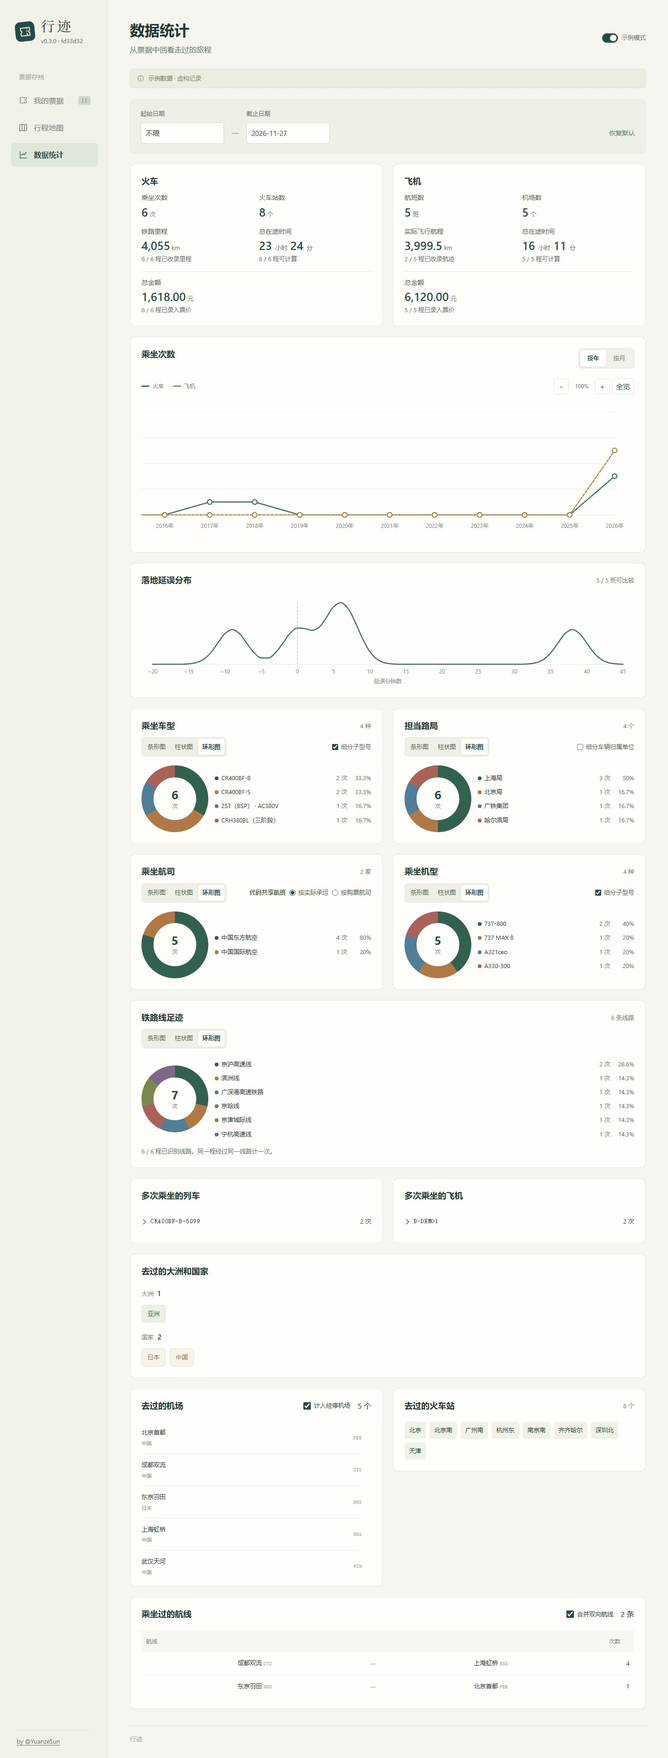
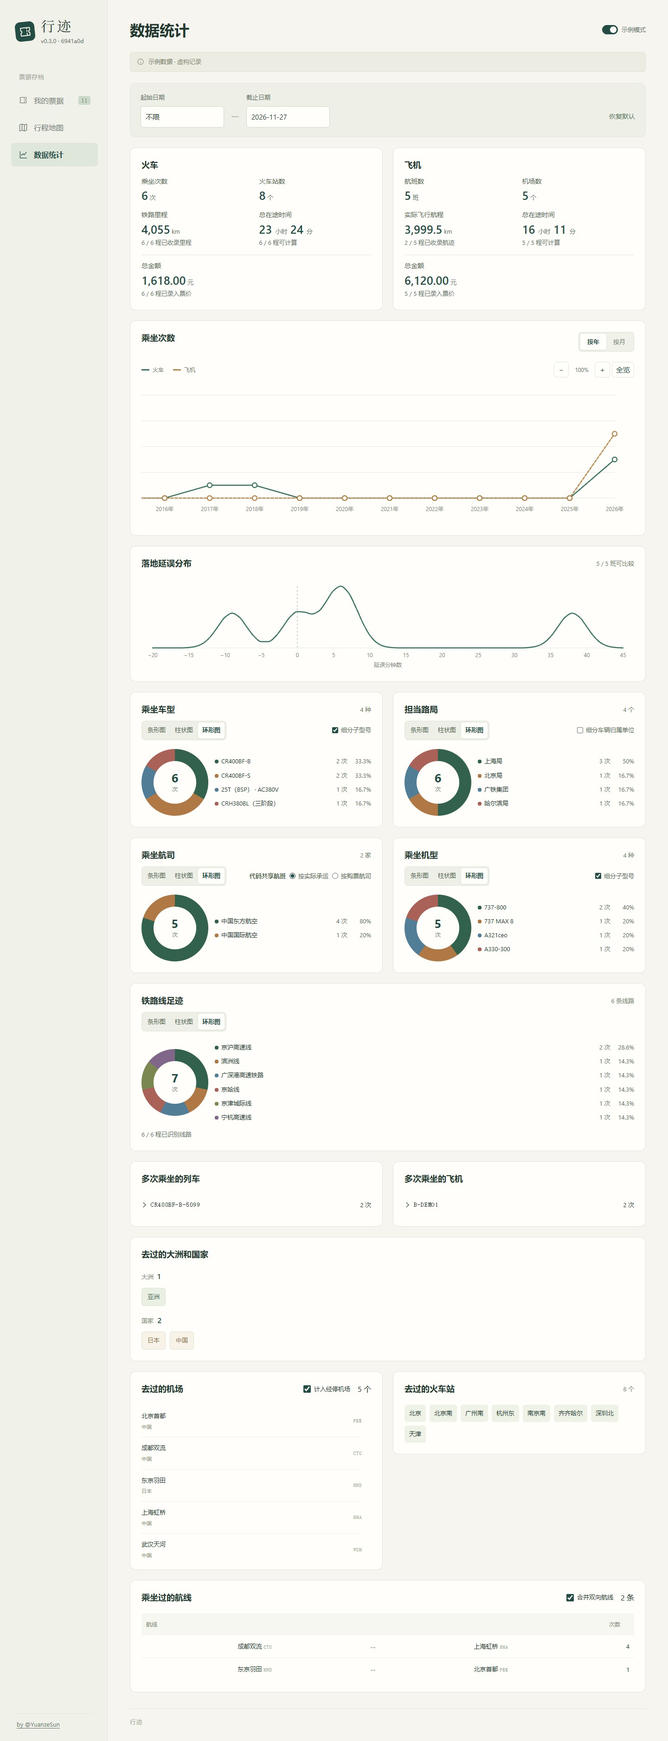
Remove redundant ticket grid controls and helper text

diff --git a/src/styles.css b/src/styles.css
@@ -63,7 +63,7 @@
 }
 
 .collection-bar{display:flex;align-items:center;justify-content:space-between;gap:16px;margin-bottom:23px}.tabs{display:flex;gap:25px;align-items:center}.tab{position:relative;background:none;border:0;padding:10px 0;color:#929889;font-size:14px;white-space:nowrap}.tab span{font-family:monospace;font-size:13px;padding:1px 5px;border-radius:4px;margin-left:6px;background:#eeefe8;color:#9ba18f}.tab.selected{color:#3a5848;font-weight:650}.tab.selected:after{content:"";position:absolute;bottom:-3px;left:0;width:25px;height:2px;background:#426d4f}.tab.selected span{background:#e2e9dc;color:#6b8361}.filter-inputs{display:flex;gap:10px;align-items:center}.search-box{display:flex;align-items:center;gap:8px;background:#fffefa;border:1px solid var(--line);padding:8px 11px;border-radius:6px}.search-box .icon{width:15px;height:15px;color:#a1a595}.search-box input{border:0;background:transparent;outline:0;width:180px;font-size:13px;color:#4c604c}.search-box input::placeholder{color:#a5aa9a}select{border:1px solid var(--line);border-radius:6px;background:var(--surface);padding:8px 10px;color:#788371;font-size:13px;height:35px}
-.ticket-grid{display:grid;grid-template-columns:repeat(2,minmax(0,1fr));gap:24px}.ticket-card{min-width:0;border:1px solid #e3e5da;border-radius:9px;background:var(--surface);padding:14px 17px 0;transition:box-shadow .2s,border-color .2s}.ticket-card:hover{border-color:#c7d0bd;box-shadow:0 7px 25px #243b2b09}.card-top{display:flex;align-items:center;justify-content:space-between;margin-bottom:16px}.transport-tag{font-size:13px;display:flex;align-items:center;gap:5px;color:#738668}.transport-tag .icon{width:14px;height:14px}.transport-tag.flight{color:#7a8b9e}.card-top time{font:13px monospace;letter-spacing:.6px;color:#9a9f90}.ticket-preview{border:0;padding:0;width:100%;display:block;line-height:0;background:none;filter:drop-shadow(0 5px 5px #3b4c3b11);transition:transform .2s}.ticket-preview:hover{transform:translateY(-2px)}.ticket-preview>svg{width:100%;height:auto;display:block;border-radius:6px}.card-info{display:flex;align-items:center;justify-content:space-between;padding:16px 0 13px;gap:8px}.card-info h2{font-weight:500;font-size:13px;letter-spacing:.3px;line-height:1.5}.card-info h2 span{color:#abb09f;margin:0 9px}.card-info p{font-size:13px;color:#9ca18f;margin-top:5px}.card-info p span{margin:0 7px}.card-info .icon-button .icon{height:16px;width:16px}.page-footer{display:flex;justify-content:space-between;margin-top:35px;padding-top:18px;border-top:1px solid #e4e7db;color:#a3a994;font-size:13px;letter-spacing:.7px}.page-footer span:last-child{font-family:TicketSong,serif}.empty-state{text-align:center;border:1px dashed #d7dfcf;border-radius:10px;padding:65px 20px;background:#ffffff55}.empty-state>.icon{height:45px;width:45px;stroke-width:1;color:#8b9c80;margin-bottom:18px}.empty-state h2{font-family:TicketSong,serif;font-size:22px;font-weight:500}.empty-state p{color:#8d9985;font-size:13px;margin:10px 0 24px}.empty-state .text-button{display:block;margin:10px auto 0}
+.ticket-grid{display:grid;grid-template-columns:repeat(2,minmax(0,1fr));gap:24px}.ticket-card{min-width:0;border:1px solid #e3e5da;border-radius:9px;background:var(--surface);padding:14px 17px 0;transition:box-shadow .2s,border-color .2s}.ticket-card:hover{border-color:#c7d0bd;box-shadow:0 7px 25px #243b2b09}.card-top{display:flex;align-items:center;justify-content:space-between;margin-bottom:16px}.transport-tag{font-size:13px;display:flex;align-items:center;gap:5px;color:#738668}.transport-tag .icon{width:14px;height:14px}.transport-tag.flight{color:#7a8b9e}.card-top time{font:13px monospace;letter-spacing:.6px;color:#9a9f90}.ticket-preview{border:0;padding:0;width:100%;display:block;line-height:0;background:none;filter:drop-shadow(0 5px 5px #3b4c3b11);transition:transform .2s}.ticket-preview:hover{transform:translateY(-2px)}.ticket-preview>svg{width:100%;height:auto;display:block;border-radius:6px}.card-info{display:flex;align-items:center;justify-content:space-between;padding:16px 0 13px;gap:8px}.card-info h2{font-weight:500;font-size:13px;letter-spacing:.3px;line-height:1.5}.card-info h2 span{color:#abb09f;margin:0 9px}.card-info p{font-size:13px;color:#9ca18f;margin-top:5px}.card-info p span{margin:0 7px}.page-footer{display:flex;justify-content:space-between;margin-top:35px;padding-top:18px;border-top:1px solid #e4e7db;color:#a3a994;font-size:13px;letter-spacing:.7px}.page-footer span:last-child{font-family:TicketSong,serif}.empty-state{text-align:center;border:1px dashed #d7dfcf;border-radius:10px;padding:65px 20px;background:#ffffff55}.empty-state>.icon{height:45px;width:45px;stroke-width:1;color:#8b9c80;margin-bottom:18px}.empty-state h2{font-family:TicketSong,serif;font-size:22px;font-weight:500}.empty-state p{color:#8d9985;font-size:13px;margin:10px 0 24px}.empty-state .text-button{display:block;margin:10px auto 0}
 .panel{background:var(--surface);border:1px solid #e1e5d8;border-radius:10px;padding:25px}.panel-heading{display:flex;align-items:center;gap:13px;margin-bottom:23px}.panel-heading h2,.panel h2{font-size:15px;font-weight:600}.panel-heading p{font-size:13px;color:#929b88;margin-top:4px}.panel-icon{color:#75906e}.import-status{font-size:13px;color:#7a845f;margin-top:13px;white-space:pre-wrap}
 .field{display:flex;flex-direction:column;gap:7px;margin-bottom:17px;min-width:0}.field>span{font-size:13px;color:#7d8d72;display:flex;flex-wrap:wrap;align-items:center;gap:8px}.field small{font-size:13px;color:#a4af98}.field input,.field select,.field textarea{width:100%;border:1px solid #dfe5d6;background:#fffefa;border-radius:5px;padding:9px 11px;color:#3d5637;font-size:13px;min-height:40px;transition:border-color .2s}.field input::placeholder,.field textarea::placeholder{color:#b0b9a5;font-size:13px}.field textarea{resize:vertical;line-height:1.8;min-height:90px}.form-grid{display:grid;grid-template-columns:repeat(2,minmax(0,1fr));gap:0 17px}.full-field{grid-column:1/-1}.checkbox-row{display:flex;align-items:center;gap:8px;font-size:13px;color:#7c8d6f;margin:8px 0 20px;flex-wrap:wrap}.checkbox-row span{display:block;width:100%;font-size:13px;color:#a1ad93;margin-left:23px}.checkbox-row input{margin:0;accent-color:var(--green)}.button-row{display:flex;align-items:center;gap:10px;flex-wrap:wrap}.data-layout{display:grid;grid-template-columns:minmax(0,1fr);gap:24px}.status-pill{margin-left:auto;border:1px solid #e4e9dd;border-radius:5px;padding:3px 7px;font-size:13px;color:#a2ab94;white-space:nowrap}.status-pill.connected{color:#66835a;background:#edf4e7;border-color:#d6e6c9}.setup-help{border-top:1px solid #e4e9dc;margin-top:23px;padding-top:15px;font-size:13px;color:#8e9d80}.setup-help summary{cursor:pointer;color:#788e68}.setup-help ol{padding-left:21px;line-height:2.1}.setup-help p{font-size:13px;line-height:1.9;margin-top:11px}.setup-help a{color:#68855b;margin-right:16px;text-decoration:underline;text-underline-offset:3px}.backup-actions{display:flex;flex-direction:column;gap:10px;margin-bottom:12px}.backup-actions button{text-align:left;display:grid;grid-template-columns:36px 1fr 20px;column-gap:10px;background:#f7f8f1;border:1px solid #e5eadc;border-radius:6px;padding:13px}.backup-actions button>span{grid-row:1/3;background:#e8efdf;display:grid;place-items:center;border-radius:7px;color:#7d946d}.backup-actions button strong{font-weight:500;font-size:13px}.backup-actions button small{grid-column:2;font-size:13px;color:#99a58a;margin-top:2px}.backup-actions button>.icon{grid-row:1/3;grid-column:3;align-self:center;height:16px;width:16px;color:#8ea17d}.body-copy{font-size:13px;line-height:1.9;color:#8b9980;margin-bottom:18px}.small-link{display:block;font-size:13px;color:#7e946c;margin-top:17px}.fine-print{font-size:13px!important;line-height:1.85;color:#a1ac94!important;margin-top:12px}
 .modal-open{overflow:hidden}dialog.modal{padding:0;border:1px solid #dde2d6;border-radius:12px;width:min(760px,calc(100% - 36px));max-height:92dvh;background:var(--surface);color:var(--ink);box-shadow:0 30px 100px #172b2930;overflow-y:auto;overscroll-behavior:contain}dialog.modal::backdrop{background:#1e302f72;backdrop-filter:blur(3px)}dialog.modal.wide{width:min(1160px,calc(100% - 40px))}.modal-heading{display:flex;justify-content:space-between;align-items:flex-start;gap:15px;padding:23px 26px;border-bottom:1px solid #e3e7db;background:var(--surface);position:sticky;top:0;z-index:2}.modal-heading h2{font-family:TicketSong,serif;font-size:21px;font-weight:550;line-height:1.5}.modal-heading p{font-size:13px;color:#9ba88b;margin-top:5px}.modal-heading .icon-button{margin:-4px -5px 0 0}.modal-footer{display:flex;align-items:center;gap:9px;padding:17px 25px;border-top:1px solid #e2e7d9;background:#f9faf3;position:sticky;bottom:0;z-index:2}.detail-preview{background:#eef1e9;padding:28px 50px}.detail-preview>svg{width:100%;height:auto;display:block;box-shadow:0 8px 6px #30483615}.detail-body{padding:23px 27px}.detail-grid{display:grid;grid-template-columns:repeat(2,minmax(0,1fr));gap:18px 25px;margin:0}.detail-grid dt{font-size:13px;color:#a5b097;margin-bottom:4px}.detail-grid dd{font-size:13px;margin:0;overflow-wrap:anywhere}.source-details{margin-top:20px;font-size:13px;color:#9aaa89}.source-details summary{cursor:pointer;color:#839970}.source-details p{margin-top:10px;display:flex;gap:12px;justify-content:space-between}.editor-layout{display:grid;grid-template-columns:1.15fr 1fr;align-items:start}.editor-fields{padding:24px 27px;border-right:1px solid #e7eadf}.editor-visual{padding:24px 24px;position:sticky;top:100px;min-width:0}.preview-label{display:flex;justify-content:space-between;font-size:13px;color:#98a68c;margin-bottom:16px}.editor-preview{line-height:0}.editor-preview>svg{display:block;width:100%;height:auto;box-shadow:0 7px 8px #2b452914}.editor-extra{border-top:1px solid #e7ebdf;padding-top:13px;margin-top:3px;margin-bottom:19px}.editor-extra summary{font-size:13px;color:#839974;cursor:pointer;margin-bottom:13px}.form-error{font-size:13px;color:var(--red);margin-top:12px}.scan-reference{margin-top:22px;font-size:13px;color:#8a9e78}.scan-reference summary{cursor:pointer;margin-bottom:10px}.scan-reference img{max-width:100%;max-height:380px;object-fit:contain;border-radius:4px;background:#eff2e7}.conflicts{padding:8px 24px 24px;max-height:60dvh;overflow:auto}.conflict{border:1px solid #e0e7d6;border-radius:8px;padding:17px;margin:20px 0 0}.conflict legend{font-size:13px;padding:0 6px}.conflict label{display:flex;gap:10px;align-items:center;padding:10px;font-size:13px;overflow-wrap:anywhere}.conflict label+label{border-top:1px solid #e6eddd}.conflict input{accent-color:var(--green)}.conflict small{display:block;color:#9eaf8b;font-size:13px}.raw-result{font:13px monospace;white-space:pre-wrap;overflow-wrap:anywhere;max-height:45dvh;overflow:auto;background:#f2f5ec;padding:16px;border-radius:6px}.boot{padding:15vh 15vw;font-family:TicketSong,serif;font-size:40px;color:var(--green)}.boot span{font-family:sans-serif;font-size:13px;color:#8b9b7e;display:block;margin-top:10px}.boot-error{padding:40px;max-width:700px}.boot-error p{margin:20px 0;font-size:14px;color:#7d8c70}#toast-root{position:fixed;bottom:25px;left:50%;transform:translateX(-50%);z-index:100;display:flex;flex-direction:column;align-items:center;gap:10px;pointer-events:none;width:min(90vw,540px)}.toast{display:flex;align-items:center;gap:9px;font-size:13px;padding:13px 19px;background:#2d5147;color:#fffef9;border-radius:8px;box-shadow:0 5px 25px #223b2c25;max-width:100%;overflow-wrap:anywhere}.toast .icon{width:17px;height:17px}.toast.error{background:#9e5648}
@@ -230,10 +230,10 @@ dialog:is(.ticket-editor-modal,.ticket-detail-modal)::backdrop{backdrop-filter:n
 .card-route h2 .route-endpoint{min-width:0;overflow:hidden;text-overflow:ellipsis;white-space:nowrap;color:var(--ink);font-size:inherit;font-weight:inherit}
 .card-route h2 span{margin:0}.card-route .route-arrow{flex-shrink:0;color:var(--muted)}
 .card-route .card-service{flex-shrink:0;font-size:18px;white-space:nowrap}
-.card-info>.icon-button{flex-shrink:0;padding-right:0}.heading-service{display:inline-block;margin-right:16px;font-size:.8em;white-space:nowrap}
+.heading-service{display:inline-block;margin-right:16px;font-size:.8em;white-space:nowrap}
 .modal-heading>div{min-width:0;flex:1}.modal-heading h2{display:flex;align-items:center}
 .heading-service{flex-shrink:0}.heading-route{min-width:0;flex:1;overflow:hidden;text-overflow:ellipsis;white-space:nowrap;text-align:right}
-@media(max-width:620px){.card-route h2{font-size:18px;gap:6px}.card-info .card-route{gap:10px}.card-route .card-service{font-size:16px}.card-info>.icon-button{padding-left:6px}.heading-service{margin-right:10px}}
+@media(max-width:620px){.card-route h2{font-size:18px;gap:6px}.card-info .card-route{gap:10px}.card-route .card-service{font-size:16px}.heading-service{margin-right:10px}}
 
 /* Timeline: readable dates, neutral cards and a continuous guide. */
 .timeline{max-width:1080px;margin-top:28px}
@@ -713,7 +713,7 @@ p.flight-local-time{margin:-4px 0 13px}
 .ticket-size-controls{display:flex;align-items:center;gap:9px;font-size:12px;color:var(--muted)}.ticket-size-controls[hidden]{display:none}.ticket-size-controls button{min-width:38px;min-height:34px;padding:6px 12px;border:1px solid var(--line);border-radius:6px;background:var(--surface);color:var(--muted);font:inherit;cursor:pointer}.ticket-size-controls button[aria-pressed=true]{background:var(--green);color:#fff;border-color:var(--green)}
 .ticket-collection.ticket-grid{grid-template-columns:repeat(auto-fill,minmax(min(100%,var(--ticket-min,390px)),1fr));gap:clamp(10px,calc(24px * var(--ticket-scale,1)),28px)}
 .ticket-collection.ticket-grid .ticket-card{container-type:inline-size;padding:14px 17px 0}
-.ticket-collection.ticket-grid .card-top{flex-wrap:wrap;gap:6px;font-size:clamp(10px,calc(13px * var(--ticket-scale,1)),15px)}.ticket-collection .card-top time{margin-left:auto}.ticket-collection.ticket-grid .card-info{padding:10px 0;gap:5px}.ticket-collection.ticket-grid .card-route{min-width:0;flex:1}.ticket-collection.ticket-grid .card-service{font-size:clamp(14px,calc(22px * var(--ticket-scale,1)),28px)}.ticket-collection.ticket-grid .card-route h2{font-size:clamp(11px,calc(17px * var(--ticket-scale,1)),23px);gap:6px}.ticket-collection.ticket-grid .route-endpoint{overflow-wrap:anywhere;min-width:0}.ticket-collection.ticket-grid .card-info>.icon-button{width:25px;min-width:25px;min-height:28px;height:28px}.ticket-collection.ticket-grid .card-info>.icon-button .icon{width:16px;height:16px}
+.ticket-collection.ticket-grid .card-top{flex-wrap:wrap;gap:6px;font-size:clamp(10px,calc(13px * var(--ticket-scale,1)),15px)}.ticket-collection .card-top time{margin-left:auto}.ticket-collection.ticket-grid .card-info{padding:10px 0;gap:5px}.ticket-collection.ticket-grid .card-route{min-width:0;flex:1}.ticket-collection.ticket-grid .card-service{font-size:clamp(14px,calc(22px * var(--ticket-scale,1)),28px)}.ticket-collection.ticket-grid .card-route h2{font-size:clamp(11px,calc(17px * var(--ticket-scale,1)),23px);gap:6px}.ticket-collection.ticket-grid .route-endpoint{overflow-wrap:anywhere;min-width:0}
 .ticket-list{display:grid;gap:0;border:1px solid var(--line);border-radius:9px;overflow:hidden}.ticket-card.ticket-list-row{display:flex;flex-direction:row;align-items:center;gap:10px;padding:0 12px;border:0;border-bottom:1px solid var(--line);border-radius:0}.ticket-list-row:last-child{border-bottom:0}.ticket-list-row.is-selected{box-shadow:inset 3px 0 #60836f;background:#eff4eb}.ticket-list-open{display:grid;grid-template-columns:96px 94px minmax(150px,1fr) 74px minmax(90px,.55fr) 70px 16px;align-items:center;gap:14px;min-height:46px;width:100%;flex:1;padding:6px 0;background:none;border:0;text-align:left;color:var(--ink);font:inherit;font-size:13px;min-width:0}.ticket-list-date{display:flex;flex-direction:column;gap:3px;font-size:12px;font-variant-numeric:tabular-nums}.ticket-list-date small{color:var(--muted);font-size:11px}.ticket-list-service{display:flex;align-items:center;gap:7px}.ticket-list-service .transport-tag{padding:0;border:0;background:none}.ticket-list-service strong{font-size:15px}.ticket-list-route{display:flex;align-items:center;gap:9px;min-width:0;overflow-wrap:anywhere}.ticket-list-person,.ticket-list-seat{overflow-wrap:anywhere;color:var(--muted);font-size:12px}.ticket-list-price{text-align:right;font-variant-numeric:tabular-nums}.ticket-list-open>.icon{width:15px}.ticket-list-row:hover{border-color:#a0b39d;background:#f8faf4}.ticket-list .card-select{flex-shrink:0}
 .timeline-list-compact{margin-top:18px}.timeline-list-compact .timeline-item{grid-template-columns:66px 28px minmax(0,1fr);gap:12px;padding-bottom:9px}.timeline-list-compact .timeline-body{padding:12px 40px 12px 16px;gap:6px;border-radius:8px}.timeline-list-compact .timeline-service{font-size:18px}.timeline-list-compact .timeline-route{font-size:17px}.timeline-list-compact .timeline-meta{font-size:12px;gap:10px}.timeline-list-compact .timeline-date strong{font-size:18px}.timeline-list-compact .ticket-period{margin-bottom:24px}
 

diff --git a/src/personal-profile-form.js b/src/personal-profile-form.js
@@ -21,7 +21,7 @@ export function personalProfilePanel(value, error = '') {
   const profile = { ...personalProfile(), ...value };
   const docs = value?.documents || [{id:'identity-card',type:'national-id'}, {id:'passport',type:'passport'}];
   const field = ([key,label,type,max]) => `<label class="field"><span>${e(label)}</span>${type === 'select' ? `<select name="${key}" data-setting-control>${GENDER_OPTIONS.map(([value,label])=>`<option value="${value}" ${profile[key] === value ? 'selected' : ''}>${label}</option>`).join('')}</select>` : `<input name="${key}" type="${type}" value="${e(profile[key])}" maxlength="${max}" autocomplete="off" data-setting-control />`}</label>`;
-  return `<section class="panel personal-profile"><div class="panel-heading"><div><h2>个人常用资料</h2><p>新建手动票据时按行程预填姓名和证件号。脱敏证件号唯一匹配后会填入并锁定。</p></div></div><form id="profile-form"><div class="profile-basics form-grid">${PROFILE_FIELDS.map(field).join('')}</div><h3>常用证件</h3><div class="profile-documents">${docs.map((doc,index)=>`<fieldset class="profile-document" data-document-id="${e(doc.id)}"><legend><span>证件 ${index+1}</span><button type="button" class="text-button danger" data-profile-remove="${e(doc.id)}" aria-label="移除证件 ${index+1}" data-setting-control>移除</button></legend><div class="profile-document-fields"><label class="field"><span>证件类型</span><select data-doc-field="type" data-setting-control>${Object.entries(DOCUMENT_TYPES).map(([key,label])=>`<option value="${key}" ${key === doc.type ? 'selected' : ''}>${label}</option>`).join('')}</select></label><label class="field"><span>证件号码</span><input data-doc-field="number" value="${e(maskedDocument(doc.number, doc.type))}" autocomplete="off" spellcheck="false" maxlength="128" data-setting-control /></label><label class="field"><span>证件备注名</span><input data-doc-field="label" value="${e(doc.label)}" placeholder="可选，如旧护照" maxlength="80" data-setting-control /></label><label class="field"><span>有效期至</span><input type="date" data-doc-field="expiry" value="${e(doc.expiry)}" data-setting-control /></label></div></fieldset>`).join('')}</div><button type="button" class="button secondary small" data-profile-add data-setting-control>＋ 添加其他证件</button>${membershipFields(profile.memberships || [])}<p class="fine-print">随个人资料同步，重置票库时保留。</p><p class="form-error" role="alert">${e(error)}</p><div class="button-row"><button class="button primary" type="submit" data-setting-control>保存个人资料</button></div></form></section>`;
+  return `<section class="panel personal-profile"><div class="panel-heading"><h2>个人常用资料</h2></div><form id="profile-form"><div class="profile-basics form-grid">${PROFILE_FIELDS.map(field).join('')}</div><h3>常用证件</h3><div class="profile-documents">${docs.map((doc,index)=>`<fieldset class="profile-document" data-document-id="${e(doc.id)}"><legend><span>证件 ${index+1}</span><button type="button" class="text-button danger" data-profile-remove="${e(doc.id)}" aria-label="移除证件 ${index+1}" data-setting-control>移除</button></legend><div class="profile-document-fields"><label class="field"><span>证件类型</span><select data-doc-field="type" data-setting-control>${Object.entries(DOCUMENT_TYPES).map(([key,label])=>`<option value="${key}" ${key === doc.type ? 'selected' : ''}>${label}</option>`).join('')}</select></label><label class="field"><span>证件号码</span><input data-doc-field="number" value="${e(maskedDocument(doc.number, doc.type))}" autocomplete="off" spellcheck="false" maxlength="128" data-setting-control /></label><label class="field"><span>证件备注名</span><input data-doc-field="label" value="${e(doc.label)}" placeholder="可选，如旧护照" maxlength="80" data-setting-control /></label><label class="field"><span>有效期至</span><input type="date" data-doc-field="expiry" value="${e(doc.expiry)}" data-setting-control /></label></div></fieldset>`).join('')}</div><button type="button" class="button secondary small" data-profile-add data-setting-control>＋ 添加其他证件</button>${membershipFields(profile.memberships || [])}<p class="form-error" role="alert">${e(error)}</p><div class="button-row"><button class="button primary" type="submit" data-setting-control>保存个人资料</button></div></form></section>`;
 }
 function collectRows(form, kind, field = kind) {
   return [...form.querySelectorAll(`[data-${kind}-id]`)].map(row => ({

diff --git a/src/ticket-card.js b/src/ticket-card.js
@@ -10,7 +10,7 @@ export function ticketSelection(record, selected) {
   return `<label class="card-select"><input type="checkbox" data-archive-select="${e(record.id)}" ${selected ? 'checked' : ''} aria-label="选择 ${e(routeLabel(record))} ${e(formatDate(record.departureDate))}票据"/></label>`;
 }
 export function ticketCard(record, {icon, selectable = true, selected = false}) {
-  return `<article class="ticket-card${selected ? ' is-selected' : ''}"><div class="card-top"><span class="transport-tag ${record.type}">${icon(record.type === 'rail' ? 'train' : 'plane')}${kind(record)}</span><time>${e(formatDate(record.departureDate))}</time></div><div class="card-info"><div class="card-route"><strong class="card-service">${e(record.service || (record.flightStatus === 'open' ? 'OPEN' : '班次待补充'))}</strong><h2><span class="route-endpoint">${e(record.origin || '出发地待补充')}</span><span class="route-arrow">→</span><span class="route-endpoint">${e(record.destination || '到达地待补充')}</span></h2></div><button class="icon-button" data-action="view" data-id="${e(record.id)}" aria-label="查看票据详情">${icon('chevron')}</button></div><div class="ticket-face" data-ticket-type="${record.type}">${selectable ? ticketSelection(record,selected) : ''}<button class="ticket-preview" data-action="view" data-id="${e(record.id)}" aria-label="查看 ${e(routeLabel(record))}票据">${ticketSVG(record)}</button></div></article>`;
+  return `<article class="ticket-card${selected ? ' is-selected' : ''}"><div class="card-top"><span class="transport-tag ${record.type}">${icon(record.type === 'rail' ? 'train' : 'plane')}${kind(record)}</span><time>${e(formatDate(record.departureDate))}</time></div><div class="card-info"><div class="card-route"><strong class="card-service">${e(record.service || (record.flightStatus === 'open' ? 'OPEN' : '班次待补充'))}</strong><h2><span class="route-endpoint">${e(record.origin || '出发地待补充')}</span><span class="route-arrow">→</span><span class="route-endpoint">${e(record.destination || '到达地待补充')}</span></h2></div></div><div class="ticket-face" data-ticket-type="${record.type}">${selectable ? ticketSelection(record,selected) : ''}<button class="ticket-preview" data-action="view" data-id="${e(record.id)}" aria-label="查看 ${e(routeLabel(record))}票据">${ticketSVG(record)}</button></div></article>`;
 }
 export function ticketListRow(record, {icon, selectable = true, selected = false}) {
   const seat = [record.type === 'rail' && record.carriage ? record.carriage+'车' : '',record.seat,record.type === 'flight' ? flightCabinLabel(record.seatClass) : record.seatClass].filter(Boolean).join(' · ');

diff --git a/src/statistics.js b/src/statistics.js
@@ -61,7 +61,7 @@ export function mountStatistics(container, records, { options = {} } = {}) {
       : option ? `<label><input type="checkbox" data-stat-option="${option}" ${options[option] ? 'checked' : ''}/>${label}</label>` : '';
     const unidentified = statistics[unknown] ? `<p class="fine-print">${unknownLabel} · ${statistics[unknown]} 次</p>` : '';
     const coverage = kind === 'rail-lines'
-      ? `<p class="statistics-coverage">${statistics.railLineTrips} / ${statistics.rail} 程已识别线路。同一程经过同一线路计一次。</p>` : '';
+      ? `<p class="statistics-coverage">${statistics.railLineTrips} / ${statistics.rail} 程已识别线路</p>` : '';
     return `<section class="statistics-panel statistics-ranking" data-stat-ranking="${kind}"><header><h2>${title}</h2><span>${rows.length} ${unit}</span></header><div class="statistics-ranking-controls"><div class="statistics-view-picker" role="group" aria-label="${title}图表样式">${chooser}</div>${grouping}</div><div data-stat-plot>${rankingPlot(kind, view)}</div>${unidentified}${coverage}</section>`;
   }
   function render() {

diff --git a/src/app.js b/src/app.js
@@ -634,7 +634,7 @@ function journeyMapPage() {
   return header('行程地图', '') + (guestDemoNotice() || (state.showDemo ? '<div class="demo-banner">' + icon('info') + '<span><strong>示例数据</strong> · 虚构记录</span></div>' : '')) + '<div id="journey-map-root"><div class="map-loading" role="status">正在加载地图…</div></div>';
 }
 function statisticsPage() {
-  return header('数据统计', '从票据中回看走过的旅程') + (guestDemoNotice() || (state.showDemo ? '<div class="demo-banner">' + icon('info') + '<span><strong>示例数据</strong> · 虚构记录</span></div>' : '')) + '<div id="statistics-root"><div class="map-loading" role="status">正在整理统计…</div></div>';
+  return header('数据统计') + (guestDemoNotice() || (state.showDemo ? '<div class="demo-banner">' + icon('info') + '<span><strong>示例数据</strong> · 虚构记录</span></div>' : '')) + '<div id="statistics-root"><div class="map-loading" role="status">正在整理统计…</div></div>';
 }
 let connectorInstalled = false, checkingConnector = false;
 async function refreshConnectorStatus() {

diff --git a/tests/flight-lookup-app.test.js b/tests/flight-lookup-app.test.js
@@ -28,6 +28,7 @@ test('the editor fills a flight through the provider, preserves private input an
     const db = await import('../src/db.js'); await import('../src/app.js'); await wait(() => document.querySelector('[data-action=new]:not(:disabled)'));
     document.querySelector('[data-action=new]').click(); await wait(() => document.querySelector('#editor-form'));
     fill('type', 'flight'); assert.ok(document.querySelector('.flight-lookup'));
+    assert.match(document.querySelector('.flight-lookup-note').textContent, /可能有误.*航旅纵横/);
     fill('service', 'CA181'); fill('departureDate', '2026-07-18'); fill('passenger', 'LI/MING'); fill('identity', 'P000001'); fill('seat', '24K'); fill('seatClass', 'Y'); fill('price', '580'); fill('pnr', 'ABC123'); fill('aircraftRegistration', 'B-0001');
     assert.equal(providerCalls.length, 0);
     document.querySelector('[data-flight-lookup]').click(); await wait(() => document.querySelector('[data-flight-status]').textContent.includes('已带入飞行航迹'));

diff --git a/tests/ticket-view.test.js b/tests/ticket-view.test.js
@@ -47,6 +47,8 @@ test('both grid sizes group dates and the small grid shows only ticket faces',()
   function render(){root.innerHTML=ticketViewControls(value)+ticketCollection([rail('a')],value,{icon});bindTicketViewControls(root,{value,change:mode=>{changed=mode;value.mode=mode;render();}});}
   render();
   assert.equal(root.querySelector('.ticket-grid').style.getPropertyValue('--ticket-min'),'390px');
+  assert.equal(root.querySelector('.ticket-card [data-action="view"]'), root.querySelector('.ticket-preview'));
+  assert.equal(root.querySelectorAll('.ticket-card [data-action="view"]').length, 1);
   assert.equal(root.querySelector('[type="range"]'),null);
   assert.deepEqual([...root.querySelectorAll('[data-ticket-size]')].map(button=>button.textContent),['小','中']);
   root.querySelector('[data-ticket-size="small"]').click();
